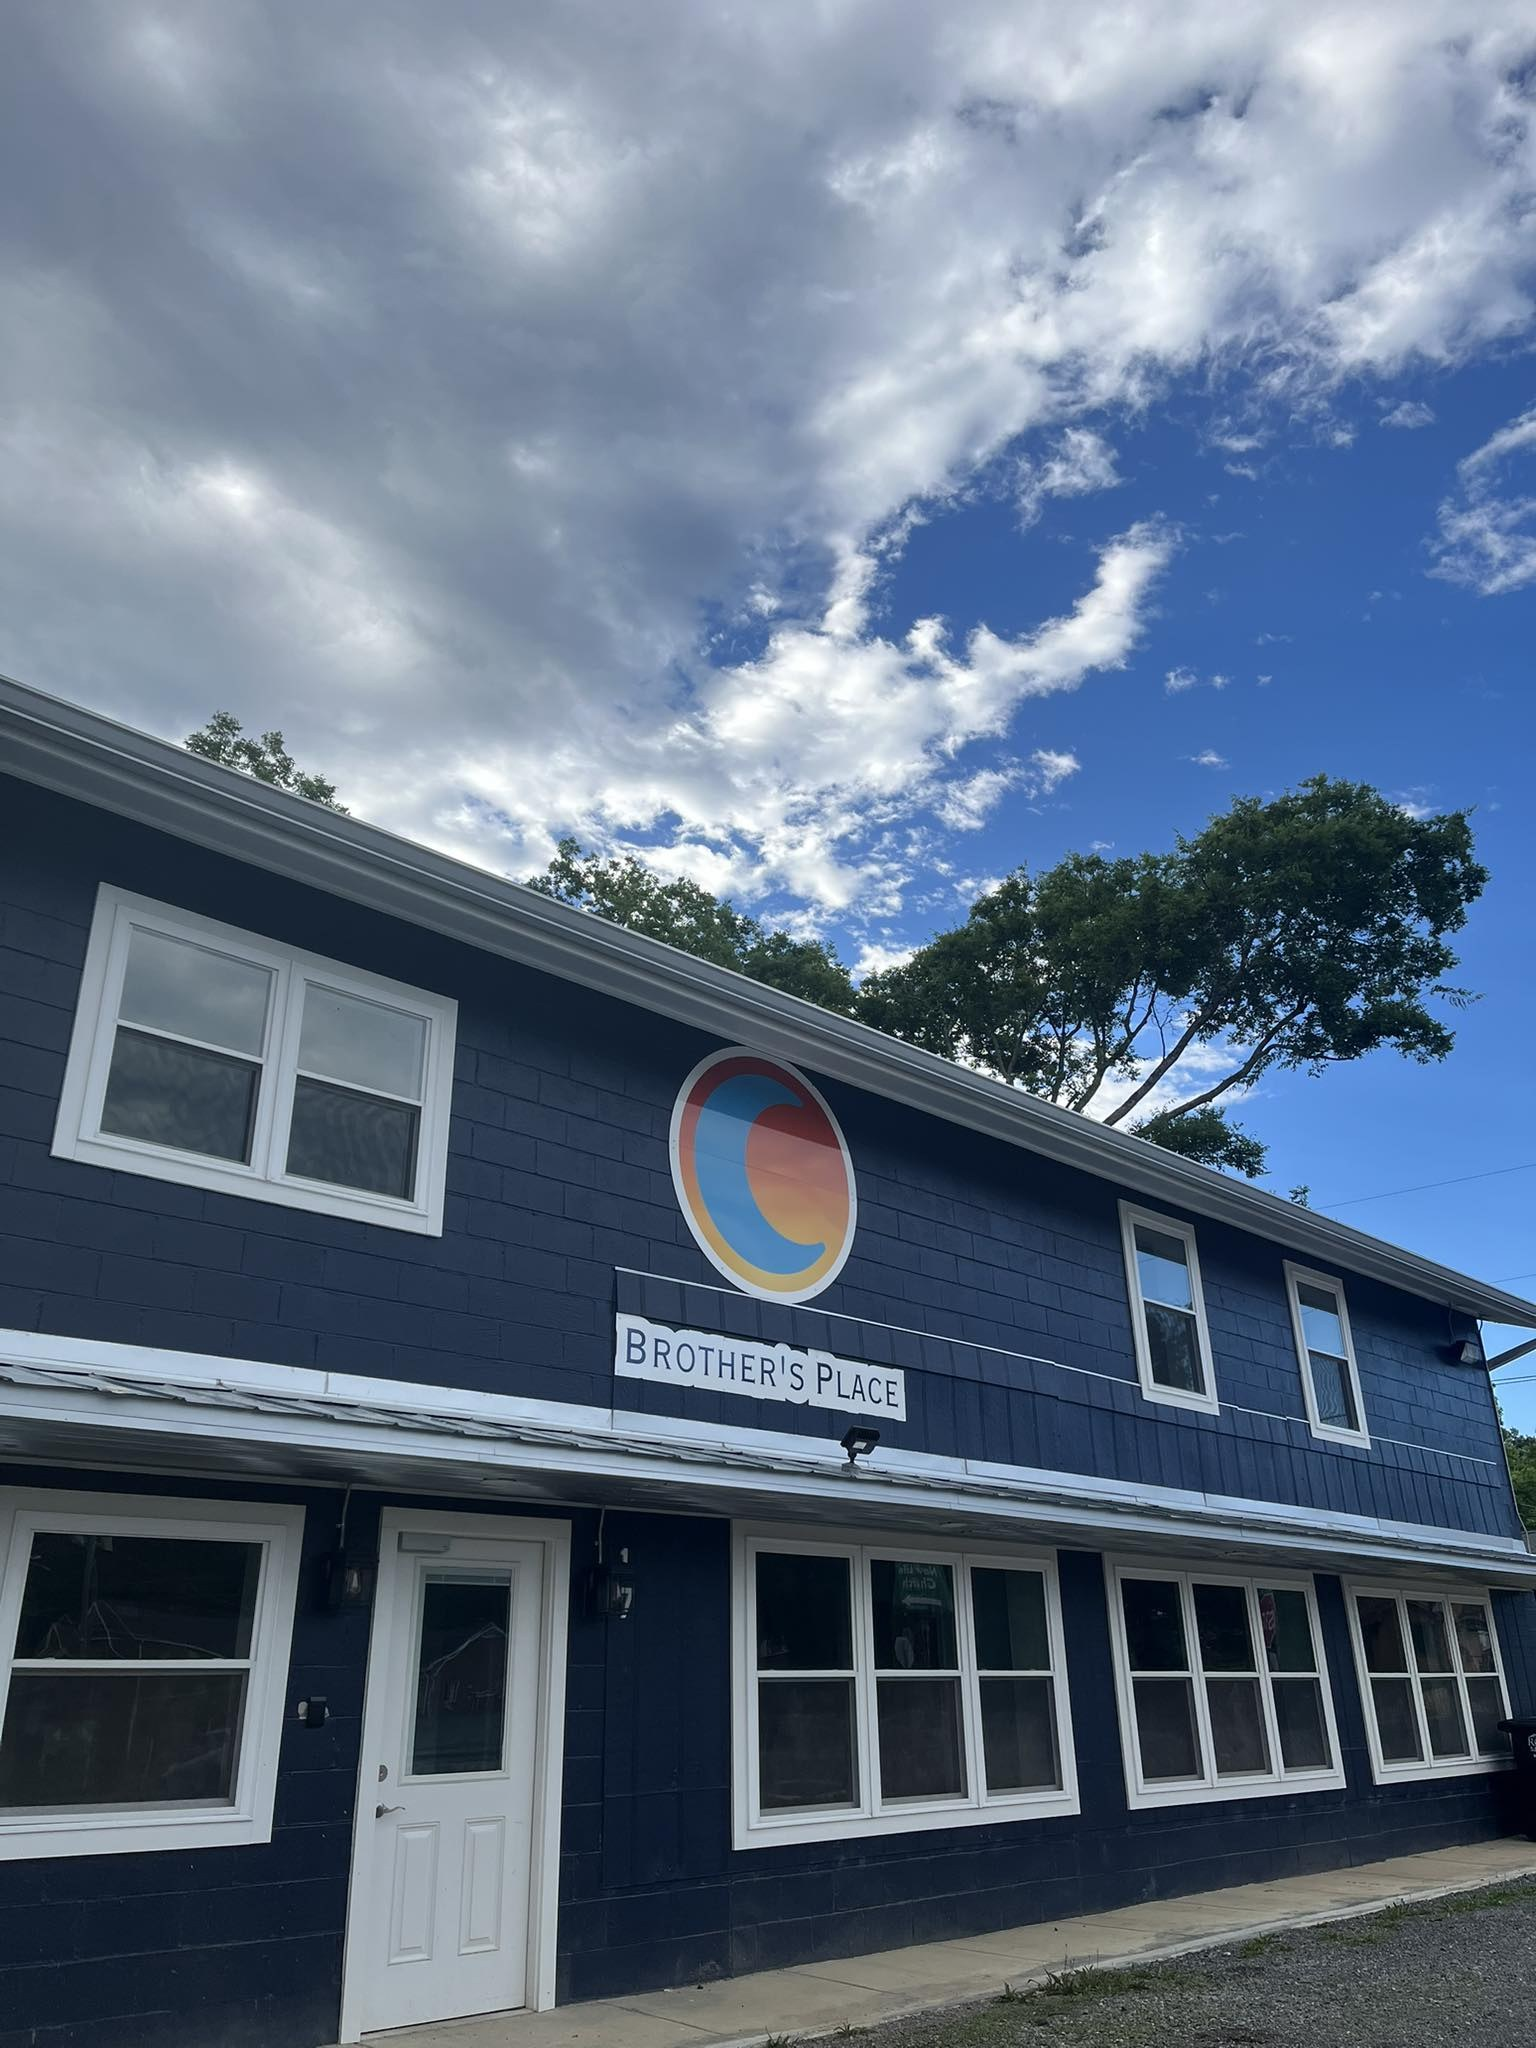
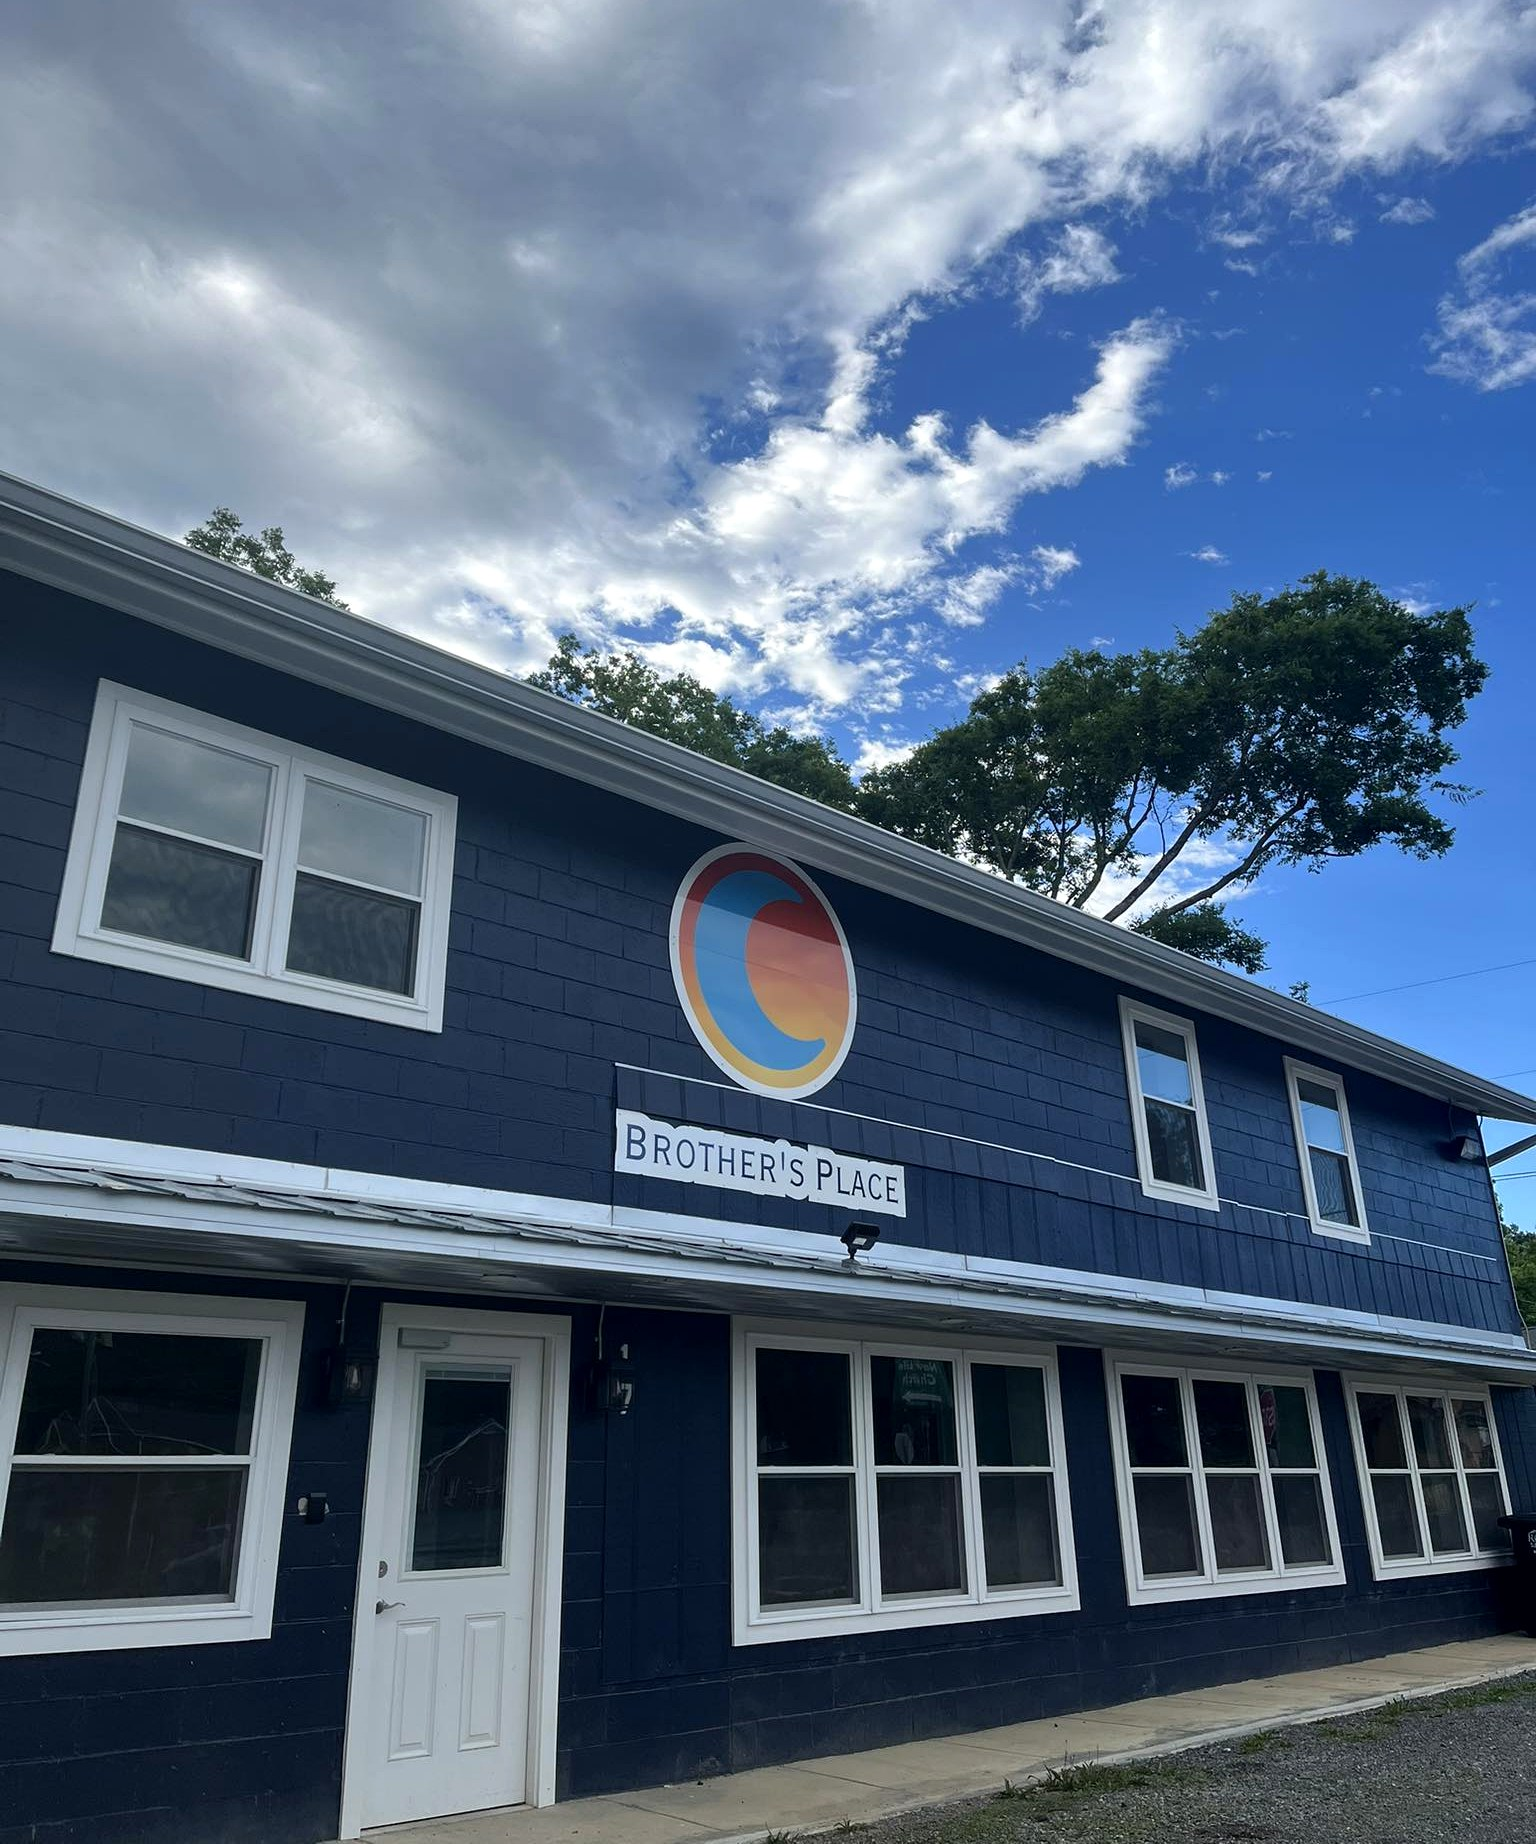
fix(hero+theme): show the building in the hero, unify contact/legal title bands
Hero photo wasn't showing the building because the portrait source had a
large sky band on top. Cropped the source to skip the upper 10% (just leaving
context sky over the building), bumped contrast/saturation/sharpness lightly
so the navy and white pop, saved at 1536x1844.

Theme consistency: contact and legal pages previously had cream-on-cream
"title bands" (section--cream + ink text) while every other inner page used
the dark navy page-hero pattern. Converted both to use the canonical
page-hero markup so the inner-page treatment is uniform site-wide. The 13
existing no-bg page-heros + these 2 now match.

diff --git a/contact/index.html b/contact/index.html
@@ -121,17 +121,18 @@
     </div>
   </header>
 
-  <!-- ===== TITLE BAND (no page-hero) ===== -->
-  <section class="section section--cream" id="main-content" aria-label="Page header">
-    <div class="container container--md">
-      <div class="prose fade-up">
-        <div class="page-hero__breadcrumbs" style="color: var(--c-ink-mute); margin-bottom: var(--s-3);">
-          <a href="/Brothers-Place-V2/" style="color: var(--c-window-2);">Home</a>
+  <!-- ===== PAGE HERO ===== -->
+  <section class="page-hero" id="main-content" aria-label="Page header">
+    <div class="page-hero__overlay"></div>
+    <div class="container">
+      <div class="page-hero__content fade-up">
+        <div class="page-hero__breadcrumbs">
+          <a href="/Brothers-Place-V2/">Home</a>
           <span aria-hidden="true">/</span>
           <span>Contact</span>
         </div>
         <h1>Contact</h1>
-        <p style="font-size: var(--fs-lead); color: var(--c-ink-soft);">We would love to hear from you, whether you need help, want to give, or want to learn more about Brother's Place.</p>
+        <p class="page-hero__subtitle">We would love to hear from you, whether you need help, want to give, or want to learn more about Brother's Place.</p>
       </div>
     </div>
   </section>

diff --git a/legal/index.html b/legal/index.html
@@ -113,17 +113,18 @@
     </div>
   </header>
 
-  <!-- ===== TITLE BAND (no page-hero) ===== -->
-  <section class="section section--cream" id="main-content" aria-label="Page header">
-    <div class="container container--md">
-      <div class="prose fade-up">
-        <div class="page-hero__breadcrumbs" style="color: var(--c-ink-mute); margin-bottom: var(--s-3);">
-          <a href="/Brothers-Place-V2/" style="color: var(--c-window-2);">Home</a>
+  <!-- ===== PAGE HERO ===== -->
+  <section class="page-hero" id="main-content" aria-label="Page header">
+    <div class="page-hero__overlay"></div>
+    <div class="container">
+      <div class="page-hero__content fade-up">
+        <div class="page-hero__breadcrumbs">
+          <a href="/Brothers-Place-V2/">Home</a>
           <span aria-hidden="true">/</span>
           <span>Privacy and Terms</span>
         </div>
         <h1>Privacy and Terms</h1>
-        <p style="font-size: var(--fs-lead); color: var(--c-ink-soft);">Last updated: 2026-05-09</p>
+        <p class="page-hero__subtitle">Last updated: 2026-05-09</p>
       </div>
     </div>
   </section>